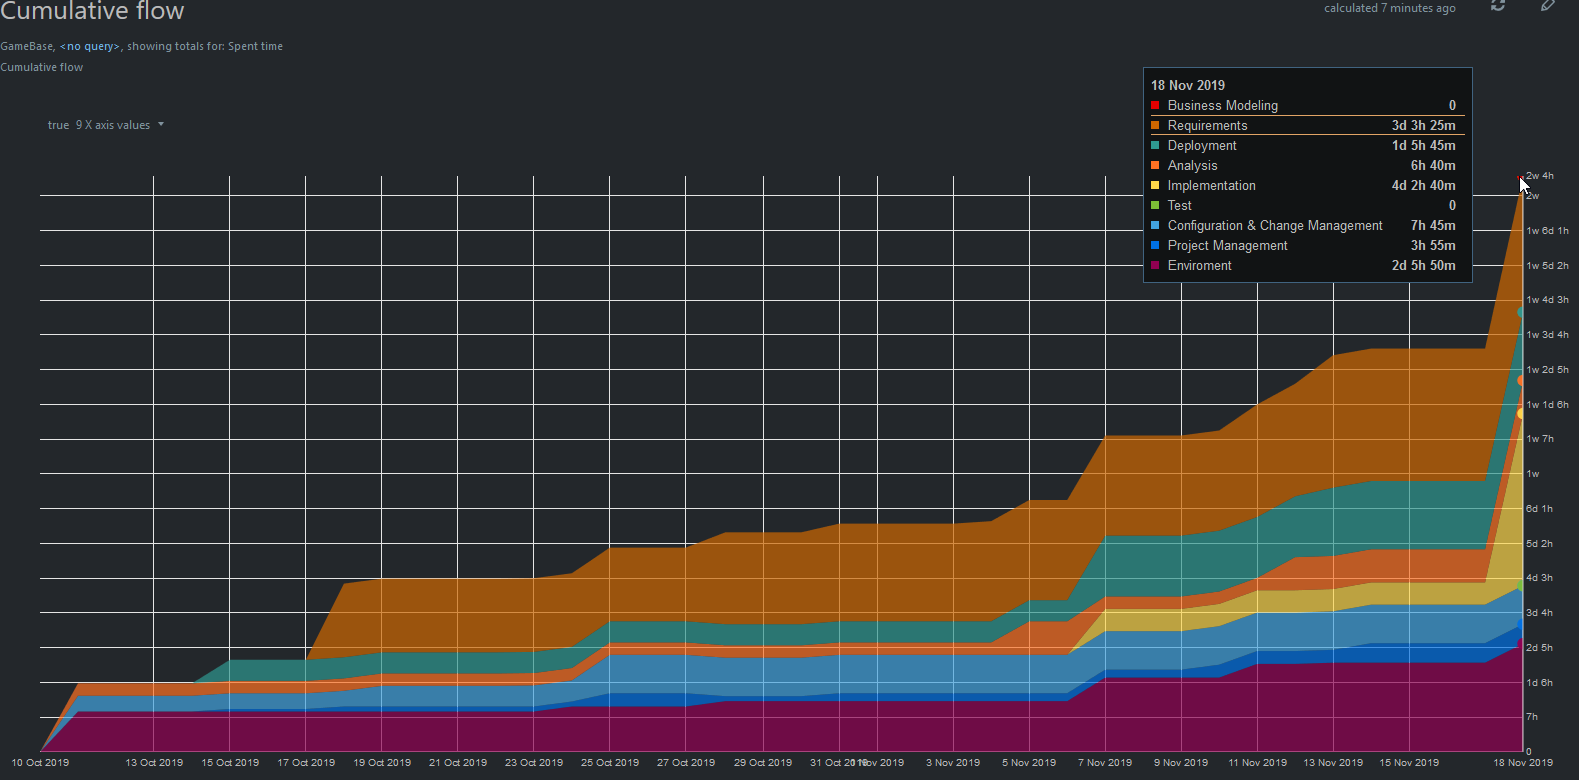
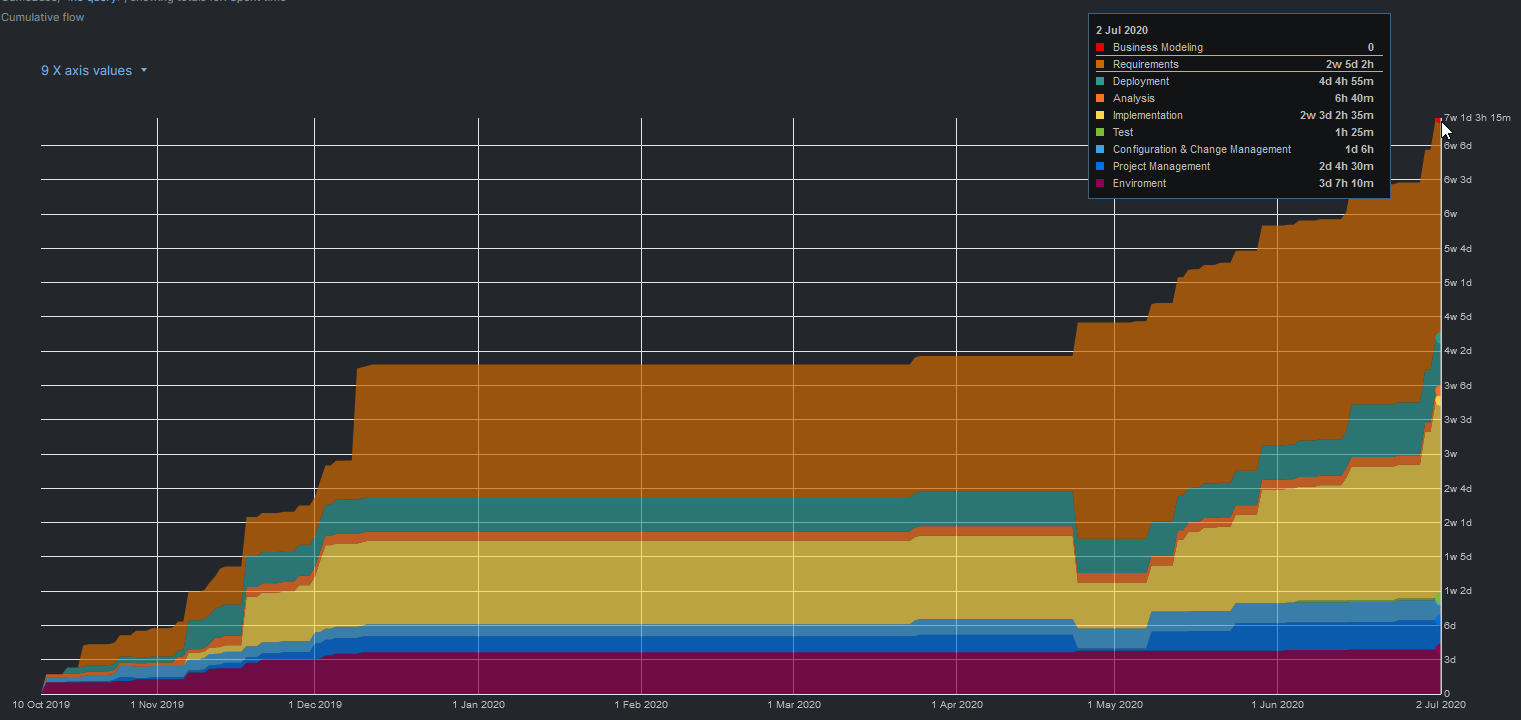
update more images

diff --git a/index.html b/index.html
@@ -142,7 +142,8 @@
             </section>
             <section>
                 <h3>Scope definitions</h3>
-                <img src="https://gitlab.tandashi.de/GameBase/documentation/-/raw/master/requirements/diagramms/Use_Case_Diagramm.png" height="500px">
+                <img src="https://gitlab.tandashi.de/GameBase/documentation/-/raw/master/requirements/diagramms/Use_Case_Diagramm.png"
+                     height="500px">
             </section>
         </section>
 
@@ -195,27 +196,38 @@
             <section>
                 <h2 class="heading-overview">Project Management</h2>
                 <img alt="youtrack icon" src="img/YouTrack.png" style="width: 100px; margin: 0; box-shadow: none;"><br>
-                <p style="color: red">Adapt to GC (Burndowns, Comulative Flow, Time Spent, Function Points)</p>
+                <p style="color: red">Adapt to GC (Burndowns)</p>
             </section>
 
             <section>
                 <h3>Organize our tasks</h3>
-                <img alt="Youtrack tasklist" src="img/YouTrack-issues_dark.png" style="width: 100%;">
+                <img alt="Youtrack tasklist" src="img/YouTrack-issues_dark.png" height="500">
             </section>
 
-            <section data-transition="slide-in fade-out" data-vertical-align-top="true">
-                <h3 style="float: left; margin-left: 20px">Sprints - Board</h3>
-                <img alt="Youtrack sprint board" src="img/YouTrack-board.png" style="width: 100%;">
-            </section>
-
-            <section data-transition="fade-in slide-out" data-vertical-align-top="true">
+            <section>
                 <h3 style="float: left; margin-left: 20px">Sprints - Burndown</h3>
+                <p style="color: red">CHANGE</p>
                 <img alt="Youtrack sprint burndown" src="img/YouTrack-burndown.png" style="width: 100%;">
             </section>
 
             <section>
                 <h3>Cumulative Flow</h3>
                 <img alt="Youtrack cumulative flow" src="img/YouTrack-cumulative.png" style="width: 100%;">
+            </section>
+
+            <section>
+                <h3>Time spent</h3>
+                <img alt="Youtrack time spent" src="img/YouTrack-time_spent.png" style="width: 100%;">
+            </section>
+
+            <section>
+                <h3>Time Esitmation</h3>
+                <img src="img/FP-time_estimation.png" height="500">
+            </section>
+
+            <section>
+                <h3>Real times</h3>
+                <img src="img/FP-real-times.png" height="500">
             </section>
 
             <section>
@@ -228,7 +240,7 @@
             <section>
                 <h2 class="heading-overview">Quality</h2>
                 <small>How do we provide QA?</small>
-                <p style="color: red">Add improovements through Blog comments, risk management, Design Patterns, Code
+                <p style="color: red">Add improvements through Blog comments, risk management, Design Patterns, Code
                     metricts (?))</p>
             </section>
             <section>
